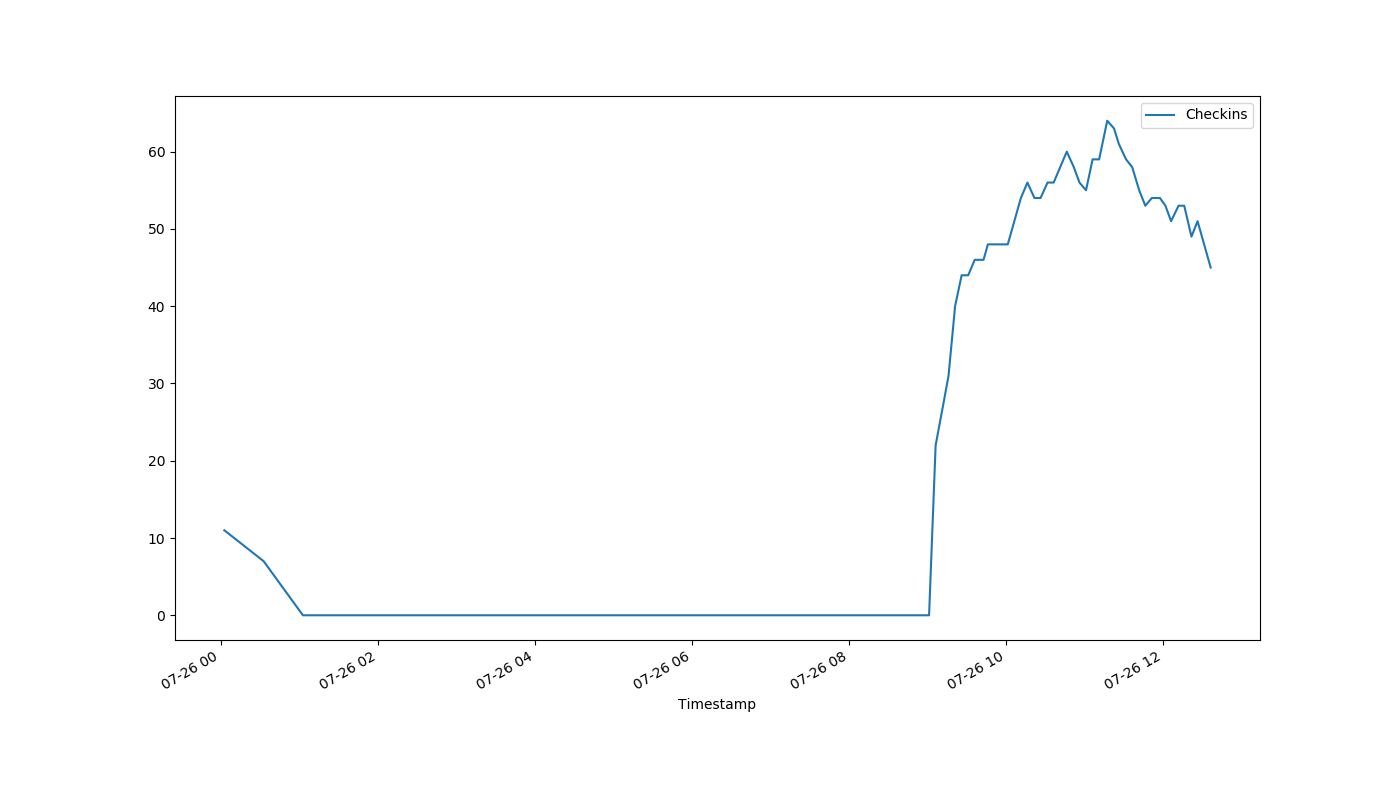
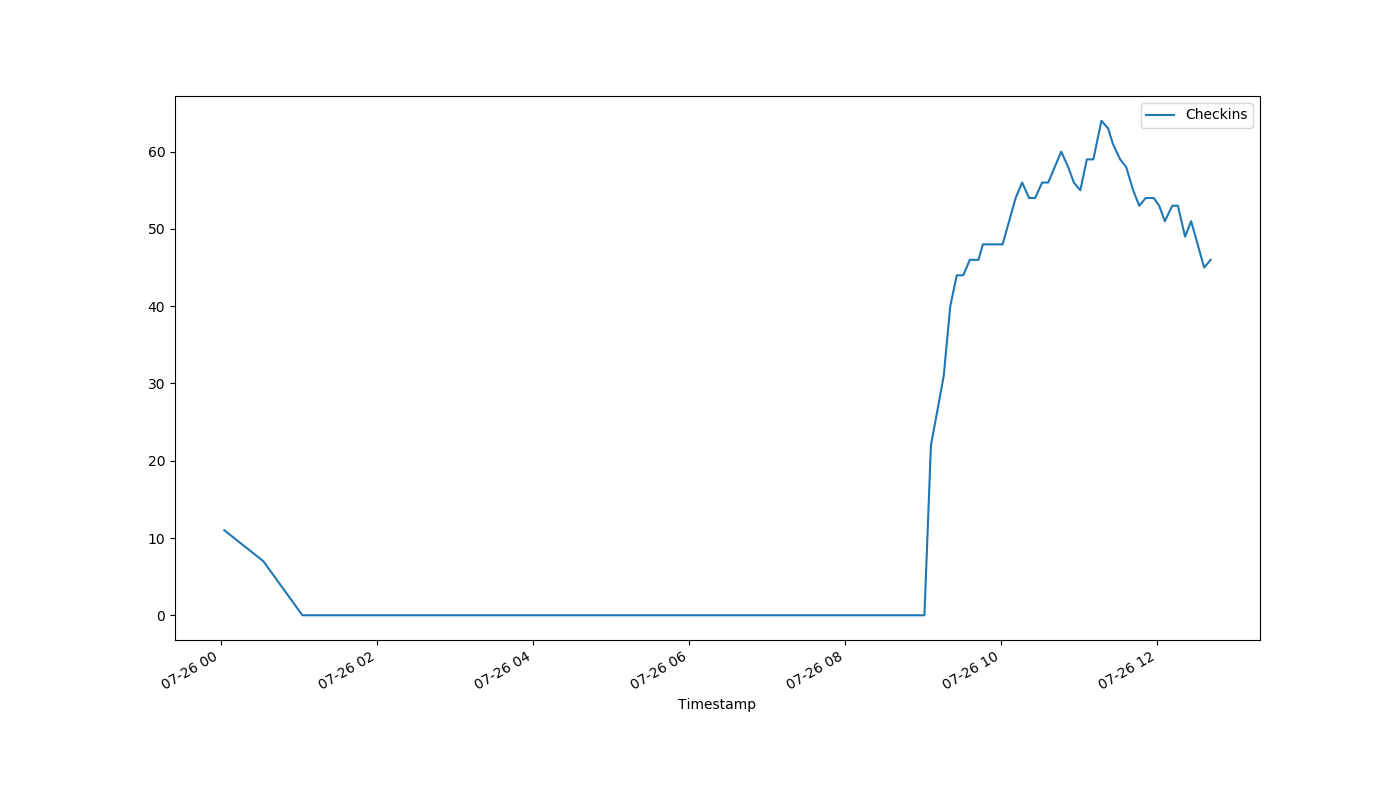
auto-Jul-26-12:42:14

diff --git a/index.html b/index.html
@@ -1,1 +1,1 @@
-<!DOCTYPE html><html><head><meta http-equiv="refresh" content="30"><link rel='stylesheet' href='holmcurrent.css'></head><body><p id='count'>45</p><div id='graph-wrap'><img id='graph' src='holmgraph-Jul-26.png'></div><p id='updated'>Last updated 12:37:02 / 12:36:13</p></body></html>
+<!DOCTYPE html><html><head><meta http-equiv="refresh" content="30"><link rel='stylesheet' href='holmcurrent.css'></head><body><p id='count'>46</p><div id='graph-wrap'><img id='graph' src='holmgraph-Jul-26.png'></div><p id='updated'>Last updated 12:42:02 / 12:41:14</p></body></html>
